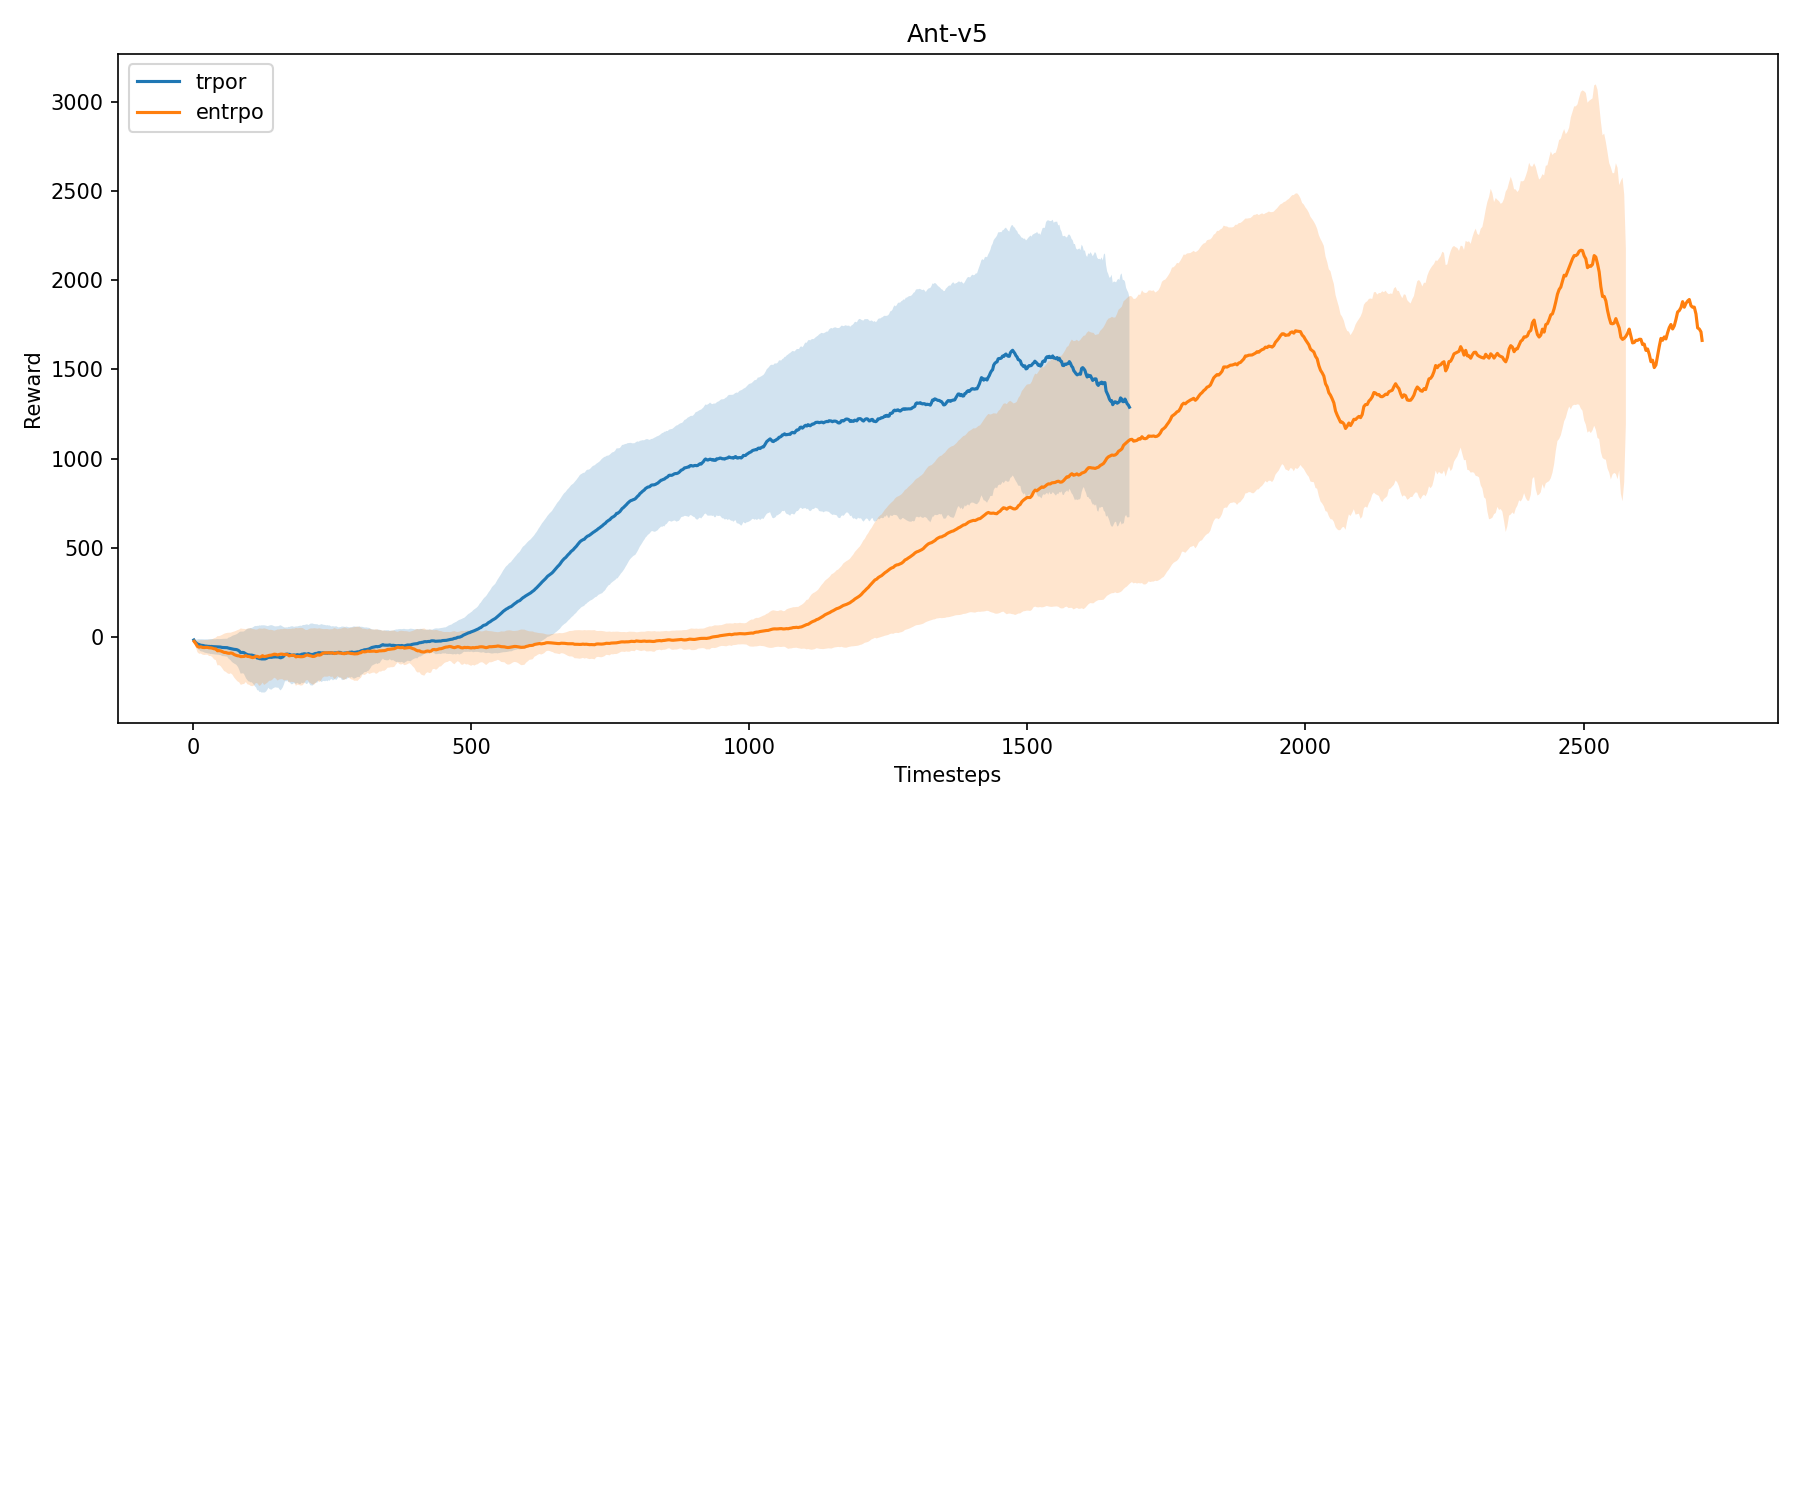
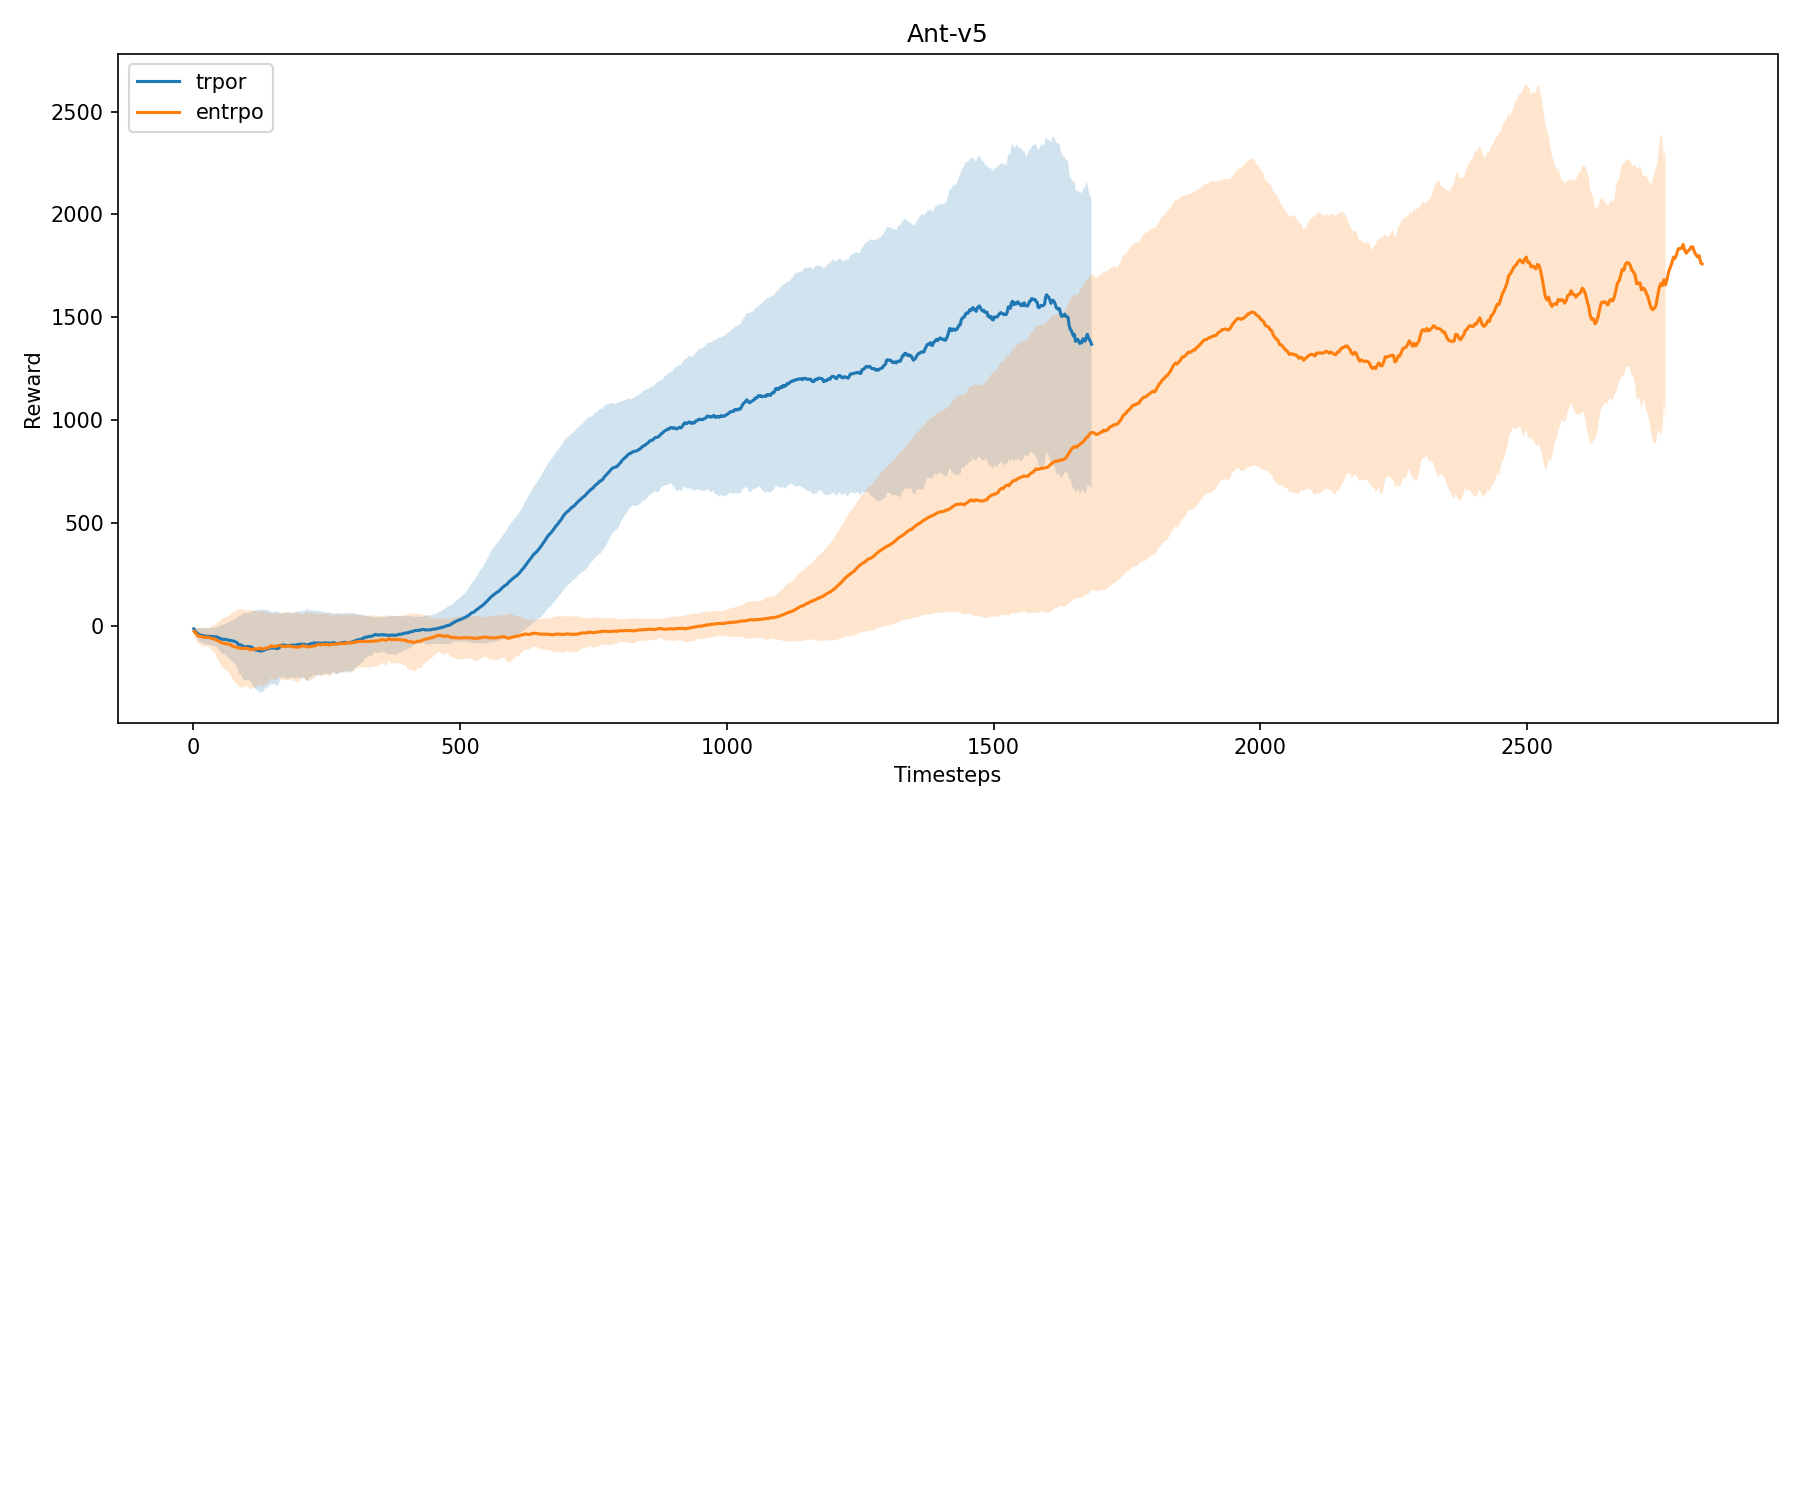
updated the trpo hyperparameters

diff --git a/Models/SB3.py b/Models/SB3.py
@@ -87,27 +87,27 @@ def sample_trpo_params(trial: optuna.Trial, n_actions: int, n_envs: int, additio
   n_steps = trial.suggest_categorical("n_steps", [8, 16, 32, 64, 128, 256, 512, 1024, 2048])
   gamma = trial.suggest_categorical("gamma", [0.9, 0.95, 0.98, 0.99, 0.995, 0.999, 0.9999])
   learning_rate = trial.suggest_float("learning_rate", 1e-5, 1, log=True)
-  # line_search_shrinking_factor = trial.suggest_categorical("line_search_shrinking_factor", [0.6, 0.7, 0.8, 0.9])
+  line_search_shrinking_factor = trial.suggest_categorical("line_search_shrinking_factor", [0.6, 0.7, 0.8, 0.9])
   n_critic_updates = trial.suggest_categorical("n_critic_updates", [5, 10, 20, 25, 30])
   cg_max_steps = trial.suggest_categorical("cg_max_steps", [5, 10, 20, 25, 30])
-  # cg_damping = trial.suggest_categorical("cg_damping", [0.5, 0.2, 0.1, 0.05, 0.01])
+  cg_damping = trial.suggest_categorical("cg_damping", [0.5, 0.2, 0.1, 0.05, 0.01])
   target_kl = trial.suggest_categorical("target_kl", [0.1, 0.05, 0.03, 0.02, 0.01, 0.005, 0.001])
   gae_lambda = trial.suggest_categorical("gae_lambda", [0.8, 0.9, 0.92, 0.95, 0.98, 0.99, 1.0])
   net_arch_type = trial.suggest_categorical("net_arch", ["small", "medium"])
   # Uncomment for gSDE (continuous actions)
-  # log_std_init = trial.suggest_float("log_std_init", -4, 1)
+  log_std_init = trial.suggest_float("log_std_init", -4, 1)
   # Uncomment for gSDE (continuous action)
-  # sde_sample_freq = trial.suggest_categorical("sde_sample_freq", [-1, 8, 16, 32, 64, 128, 256])
+  sde_sample_freq = trial.suggest_categorical("sde_sample_freq", [-1, 8, 16, 32, 64, 128, 256])
   # Orthogonal initialization
   ortho_init = False
-  # ortho_init = trial.suggest_categorical('ortho_init', [False, True])
-  # activation_fn = trial.suggest_categorical('activation_fn', ['tanh', 'relu', 'elu', 'leaky_relu'])
+  ortho_init = trial.suggest_categorical("ortho_init", [False, True])
+  activation_fn = trial.suggest_categorical("activation_fn", ["tanh", "relu", "elu", "leaky_relu"])
   activation_fn_name = trial.suggest_categorical("activation_fn", ["tanh", "relu"])
   # lr_schedule = "constant"
   # Uncomment to enable learning rate schedule
-  # lr_schedule = trial.suggest_categorical('lr_schedule', ['linear', 'constant'])
-  # if lr_schedule == "linear":
-  #     learning_rate = linear_schedule(learning_rate)
+  lr_schedule = trial.suggest_categorical("lr_schedule", ["linear", "constant"])
+  if lr_schedule == "linear":
+    learning_rate = linear_schedule(learning_rate)
 
   # TODO: account when using multiple envs
   if batch_size > n_steps:
@@ -133,16 +133,16 @@ def sample_trpo_params(trial: optuna.Trial, n_actions: int, n_envs: int, additio
     "batch_size": batch_size,
     "gamma": gamma,
     "n_envs": n_envs,
-    # "cg_damping": cg_damping,
+    "cg_damping": cg_damping,
     "cg_max_steps": cg_max_steps,
-    # "line_search_shrinking_factor": line_search_shrinking_factor,
+    "line_search_shrinking_factor": line_search_shrinking_factor,
     "n_critic_updates": n_critic_updates,
     "target_kl": target_kl,
     "learning_rate": learning_rate,
     "gae_lambda": gae_lambda,
-    # "sde_sample_freq": sde_sample_freq,
+    "sde_sample_freq": sde_sample_freq,
     "policy_kwargs": dict(
-      # log_std_init=log_std_init,
+      log_std_init=log_std_init,
       net_arch=net_arch,
       activation_fn=activation_fn,
       ortho_init=ortho_init,

diff --git a/zoo/train_eval_plot.py b/zoo/train_eval_plot.py
@@ -40,7 +40,6 @@ def downsample_data_with_smoothing(timesteps, rewards, max_points=1000, window_s
   return binned_timesteps, binned_rewards
 
 
-# Good
 def plot_all_from_csv(csv_path, results_dir):
   """
     Generate plots for all environments in a grid with 2 rows.
@@ -56,6 +55,10 @@ def plot_all_from_csv(csv_path, results_dir):
   results_df = pd.read_csv(csv_path)
   grouped = results_df.groupby("Env")
   n_envs = len(grouped)
+  line_styles = ["-", "--", "-.", ":"]
+  markers = ["o", "s", "^", "D"]
+  max_points = 1000
+  marker_interval = max(1, max_points // 50)  # Ensure no more than 100 markers per line
 
   # Calculate grid dimensions
   n_cols = (n_envs + 1) // 2  # Ensure all plots fit into a 2-row grid
@@ -65,7 +68,7 @@ def plot_all_from_csv(csv_path, results_dir):
   axes = axes.flatten()
 
   for ax, (env, group) in zip(axes, grouped):
-    for model in group["Model"].unique():
+    for idx, model in enumerate(group["Model"].unique()):
       model_data = group[group["Model"] == model]
       aggregated_df = pd.DataFrame()
 
@@ -84,6 +87,10 @@ def plot_all_from_csv(csv_path, results_dir):
         downsampled_timesteps, downsampled_mean_rewards = downsample_data_with_smoothing(mean_rewards.index.values, mean_rewards.values)
         _, downsampled_std_rewards = downsample_data_with_smoothing(mean_rewards.index.values, std_rewards.values)
 
+        # Select line style and marker
+        line_style = line_styles[idx % len(line_styles)]
+        marker = markers[idx % len(markers)]
+
         # Plot mean and standard deviation
         ax.fill_between(
           downsampled_timesteps,
@@ -91,7 +98,15 @@ def plot_all_from_csv(csv_path, results_dir):
           downsampled_mean_rewards + downsampled_std_rewards,
           alpha=0.2,
         )
-        ax.plot(downsampled_timesteps, downsampled_mean_rewards, label=f"{model}", linewidth=1.5)
+        ax.plot(
+          downsampled_timesteps,
+          downsampled_mean_rewards,
+          label=f"{model}",
+          linewidth=1.5,
+          linestyle=line_style,
+          marker=marker,
+          markevery=marker_interval,
+        )
 
     ax.set_title(env)
     ax.set_xlabel("Timesteps")
